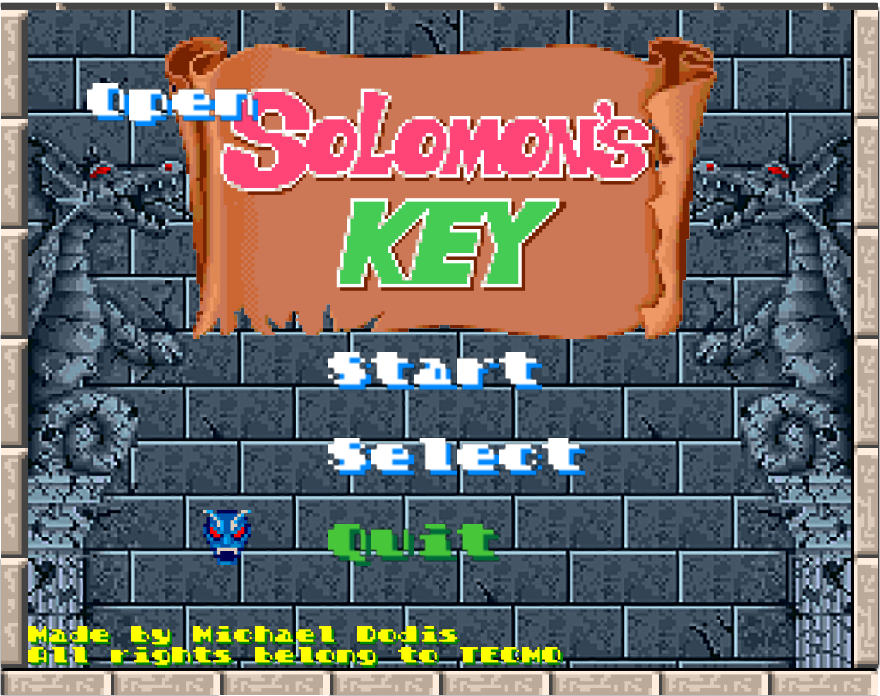
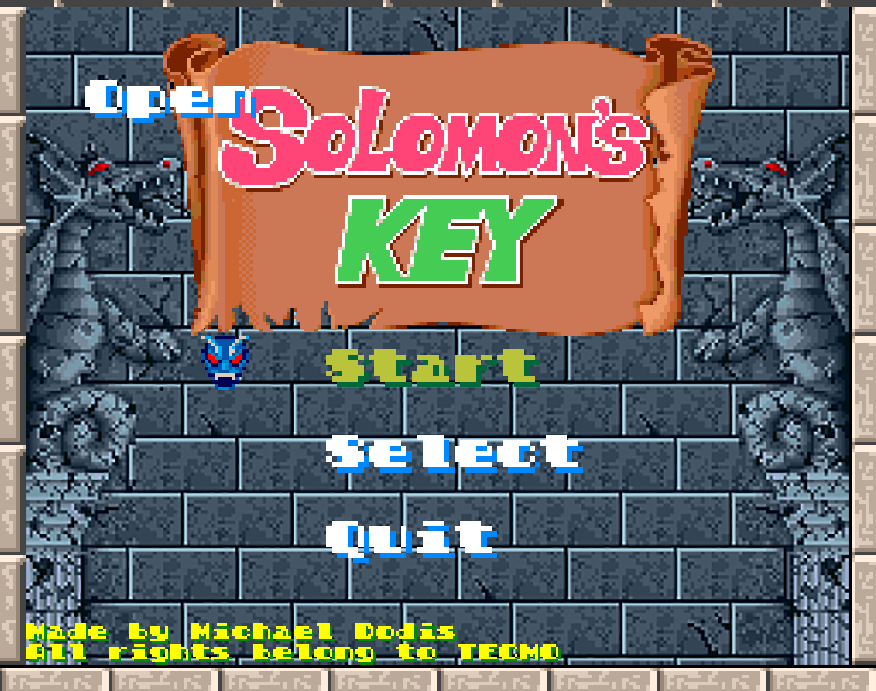
i was wondering why it looked wrong for such a long time

diff --git a/src/gl_graphics.cpp b/src/gl_graphics.cpp
@@ -100,8 +100,8 @@ internal GLTilemapTexture gl_load_rgba_tilemap(u8* data, i32 width, i32 height, 
     
     glTexParameteri(GL_TEXTURE_2D_ARRAY, GL_TEXTURE_BASE_LEVEL, 0);
     glTexParameteri(GL_TEXTURE_2D_ARRAY, GL_TEXTURE_MAX_LEVEL,  1);
-    glTexParameteri(GL_TEXTURE_2D_ARRAY, GL_TEXTURE_MAG_FILTER, GL_LINEAR);
-    glTexParameteri(GL_TEXTURE_2D_ARRAY, GL_TEXTURE_MIN_FILTER, GL_LINEAR);
+    glTexParameteri(GL_TEXTURE_2D_ARRAY, GL_TEXTURE_MAG_FILTER, GL_NEAREST);
+    glTexParameteri(GL_TEXTURE_2D_ARRAY, GL_TEXTURE_MIN_FILTER, GL_NEAREST);
     glTexParameteri(GL_TEXTURE_2D_ARRAY, GL_TEXTURE_WRAP_S,     GL_CLAMP_TO_EDGE);
     glTexParameteri(GL_TEXTURE_2D_ARRAY, GL_TEXTURE_WRAP_T,     GL_CLAMP_TO_EDGE);
     
